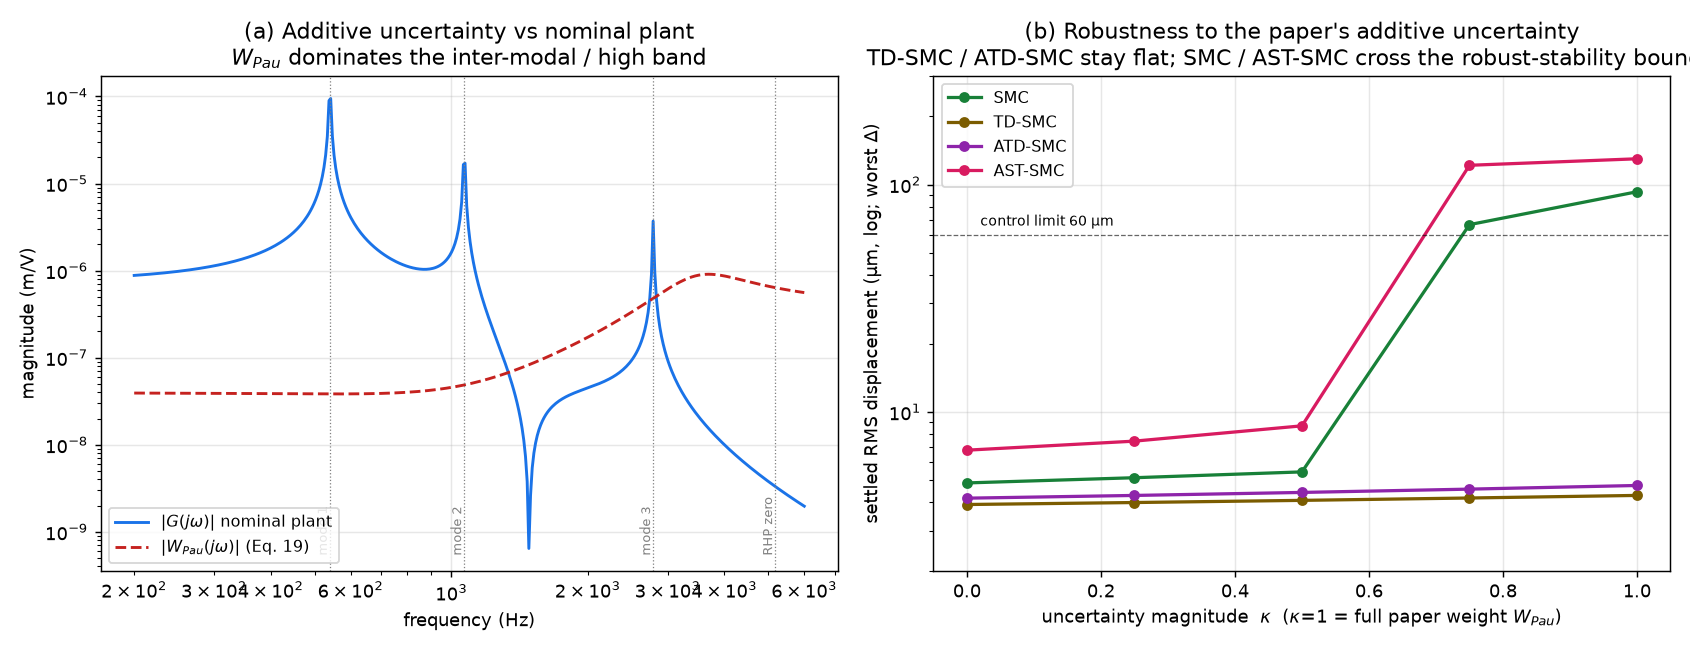
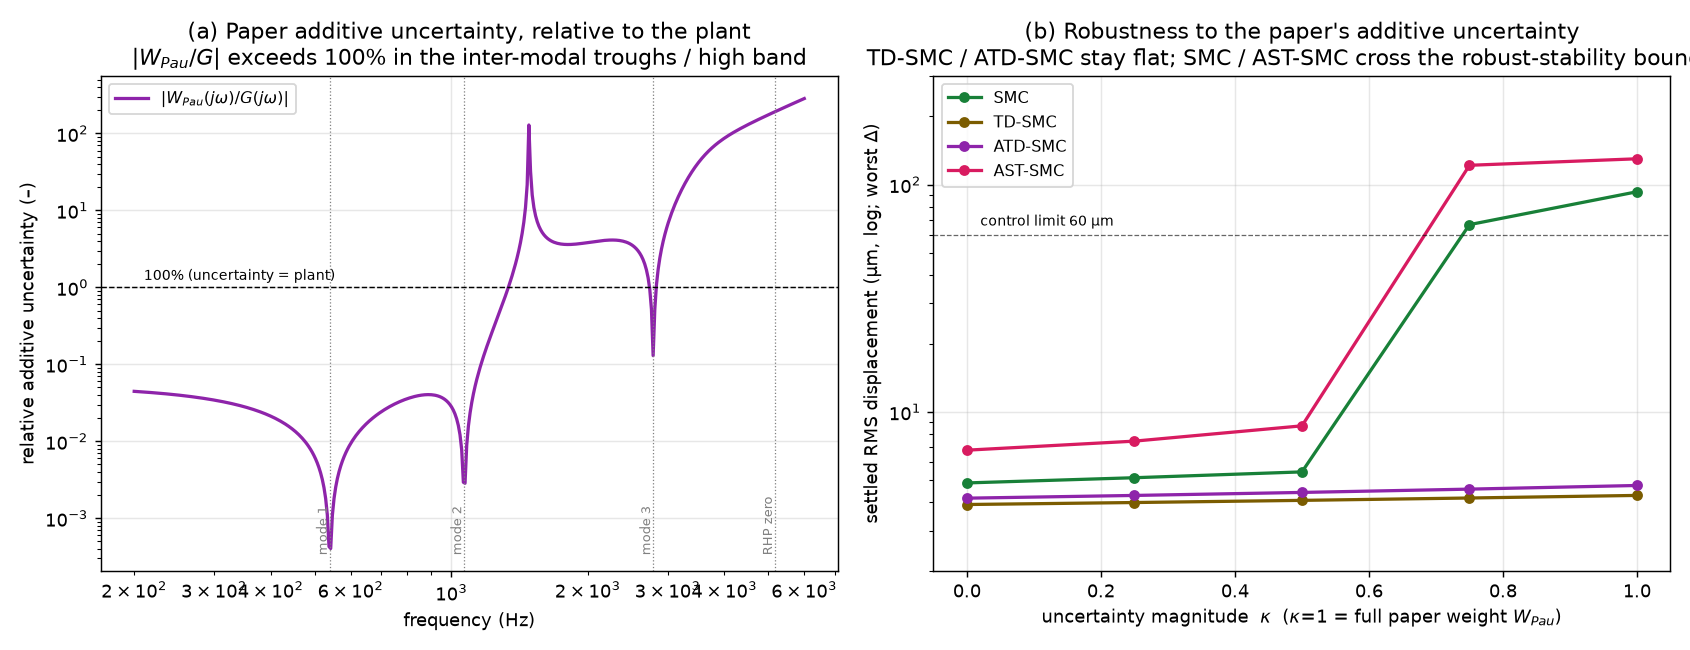
Uncertainty figure panel (a): switch to standard relative form |W_Pau/G|
Per reference-convention feedback, panel (a) of fig_uncertainty now plots the
relative additive uncertainty |W_Pau(jw)/G(jw)| (the standard robust-control
representation) instead of the two absolute magnitudes: negligible (<1e-3) at
the controlled modes, exceeding 100% (uncertainty = plant) in the inter-modal
troughs and the high band toward the RHP zero -- which is exactly why robust
stability there requires ||W_Pau K S||<1.  Panel (b) (robustness sweep)
unchanged; docstring and README caption updated.

Claude-Session: https://claude.ai/code/session_01ETjKYUC9Dau9sAaQuHJsux

diff --git a/make_uncertainty_figure.py b/make_uncertainty_figure.py
@@ -3,9 +3,10 @@
 Robustness to the paper's additive dynamic uncertainty (Du et al. Eq. 19, weight
 W_Pau) for the sliding-mode family.
 
-Left  (a): |G(jw)| of the nominal actuator->sensor plant vs |W_Pau(jw)| -- the
-           uncertainty is negligible at the controlled modes but dominates the
-           inter-modal troughs / high band (toward the RHP zero).
+Left  (a): relative additive uncertainty |W_Pau(jw) / G(jw)| (standard robust-
+           control form) -- negligible at the controlled modes but exceeding
+           100% (uncertainty = plant) in the inter-modal troughs / high band
+           toward the RHP zero.
 Right (b): settled RMS vs uncertainty magnitude kappa (worst over Delta in
            {+1,-1,allpass}); a railed / diverged controller is drawn at the
            ceiling with a marker.  TD-SMC and ATD-SMC stay flat across the full
@@ -41,28 +42,31 @@ def main():
                          "grid.alpha": 0.3, "axes.axisbelow": True})
     fig, ax = plt.subplots(1, 2, figsize=(13, 5.0))
 
-    # (a) |G| vs |W_Pau|
+    # (a) relative additive uncertainty |W_Pau / G| (standard robust-control form)
     pl = P.MillingPlant()
     A = pl.A
     Bu = np.concatenate([np.zeros(pl.n), pl.Hpe])
     Cy = pl.Cy.ravel()
     fhz = np.logspace(np.log10(200), np.log10(6000), 400)
-    Gmag, Wmag = [], []
+    rel = []
     for fq in fhz:
         w = 2 * np.pi * fq
-        Gmag.append(abs(Cy @ np.linalg.solve(1j * w * np.eye(2 * pl.n) - A, Bu)))
-        Wmag.append(abs(np.polyval(UNC.NUM_WPAU, 1j * w) / np.polyval(UNC.DEN_WPAU, 1j * w)))
-    ax[0].loglog(fhz, Gmag, color="#1a73e8", lw=1.6, label=r"$|G(j\omega)|$ nominal plant")
-    ax[0].loglog(fhz, Wmag, color="#c5221f", lw=1.6, ls="--", label=r"$|W_{Pau}(j\omega)|$ (Eq. 19)")
-    for fn, lb in [(540, "mode 1"), (1068, "mode 2"), (2787, "mode 3"), (5175, "RHP zero")]:
+        G = Cy @ np.linalg.solve(1j * w * np.eye(2 * pl.n) - A, Bu)
+        Wp = np.polyval(UNC.NUM_WPAU, 1j * w) / np.polyval(UNC.DEN_WPAU, 1j * w)
+        rel.append(abs(Wp / G))
+    ax[0].loglog(fhz, rel, color="#8e24aa", lw=1.8,
+                 label=r"$|W_{Pau}(j\omega)/G(j\omega)|$")
+    ax[0].axhline(1.0, color="k", ls="--", lw=0.8)
+    ax[0].text(210, 1.25, "100% (uncertainty = plant)", fontsize=8)
+    for fn, lb in [(540, "mode 1"), (1068, "mode 2"), (2787, "mode 3"), (5171, "RHP zero")]:
         ax[0].axvline(fn, color="gray", ls=":", lw=0.7)
-        ax[0].text(fn, ax[0].get_ylim()[0] * 1.5, lb, rotation=90, fontsize=7,
+        ax[0].text(fn, ax[0].get_ylim()[0] * 1.6, lb, rotation=90, fontsize=7,
                    va="bottom", ha="right", color="gray")
     ax[0].set_xlabel("frequency (Hz)")
-    ax[0].set_ylabel("magnitude (m/V)")
-    ax[0].set_title("(a) Additive uncertainty vs nominal plant\n"
-                    "$W_{Pau}$ dominates the inter-modal / high band")
-    ax[0].legend(fontsize=9, loc="lower left")
+    ax[0].set_ylabel("relative additive uncertainty (–)")
+    ax[0].set_title("(a) Paper additive uncertainty, relative to the plant\n"
+                    r"$|W_{Pau}/G|$ exceeds 100% in the inter-modal troughs / high band")
+    ax[0].legend(fontsize=9, loc="upper left")
 
     # (b) settled RMS vs kappa
     for name, ctor, col in FAM:

diff --git a/README.md b/README.md
@@ -197,7 +197,7 @@ RMS مستقرّة (µm) / ذروة V. **DIV**=يتباعد؛ العتبة: RMS<
 |-------|-------|
 | **`fig_challenges.png`** | الجناح الـ11 × 4 متحكمات (الشكل المِحوري الساكن) |
 | **`fig_pass_ceiling.png`** | **سقف المرور الكامل** (الشكل الحاسم المكاني‑الزماني) |
-| **`fig_uncertainty.png`** | **متانة عدم يقين المقال الجمعي $W_{Pau}$**: (أ) $\|G\|$ مقابل $\|W_{Pau}\|$ (ب) RMS مقابل مقدار عدم اليقين |
+| **`fig_uncertainty.png`** | **متانة عدم يقين المقال الجمعي $W_{Pau}$**: (أ) عدم اليقين النسبيّ $\|W_{Pau}/G\|$ (ب) RMS مقابل مقدار عدم اليقين $\kappa$ |
 | **`fig_boundary_detuning.png`** | (أ) حدّ القوة الساكن (ب) نطاق الانزياح |
 | `fig_time_response/spectrum/metrics_bars/robustness/activation/control_voltage/time_full` | لقطة اسمية |
 | `fig14_responses.png`, `fig_full_pass.png` | المرور الكامل بنمط الشكل 14 |
